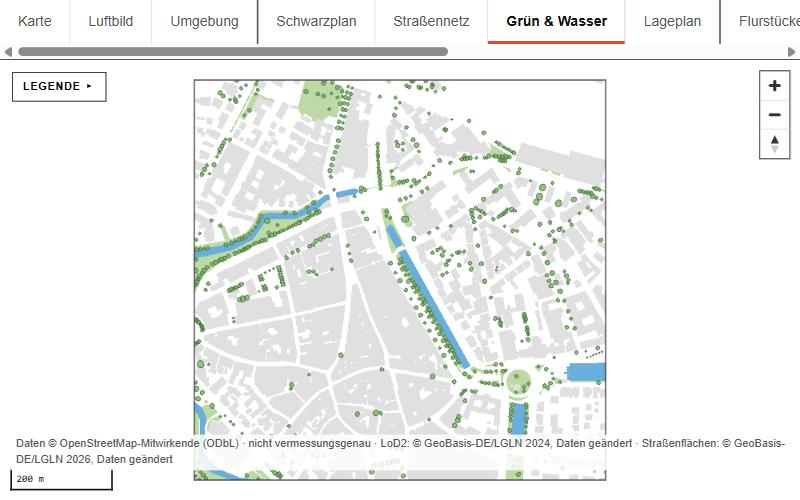
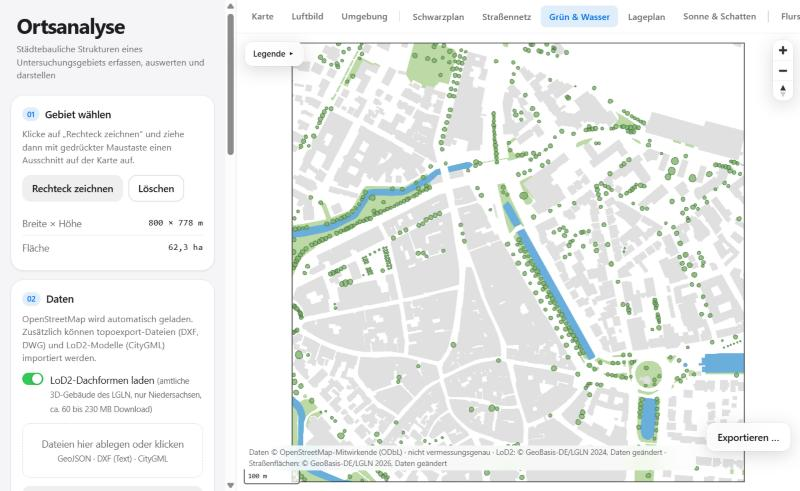
README: alle Bilder mit der neuen Oberfläche neu aufgenommen, Umgebungs-Export mit blauen Kreisen

diff --git a/README.md b/README.md
@@ -189,7 +189,7 @@ Mit dem Schalter **Straßenansicht** sieht man stattdessen die Gebäudefassaden 
 Mit dem Haken **„Sonne“** werfen alle Gebäude und Bäume Schatten nach Datum und Uhrzeit (gleiche Einstellung wie im Reiter „Sonne & Schatten“).
 
 ![3D-Modell](docs/bilder/3d-modell.jpg)
-![3D-Modell mit Schatten, 21. März, 16:40 Uhr](docs/bilder/3d-schatten.jpg)
+![3D-Modell mit Schatten, 21. März, 15 Uhr](docs/bilder/3d-schatten.jpg)
 
 ### 5. Zahlen
 
